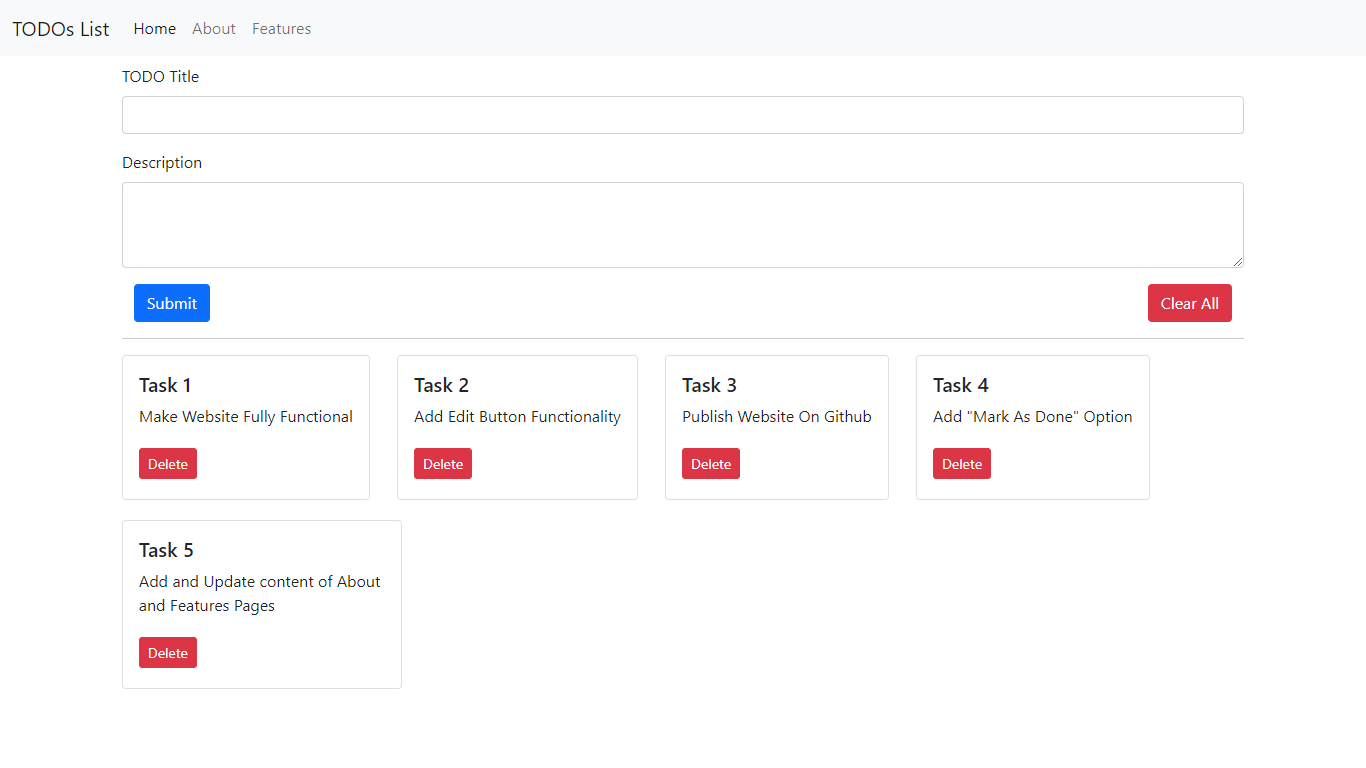
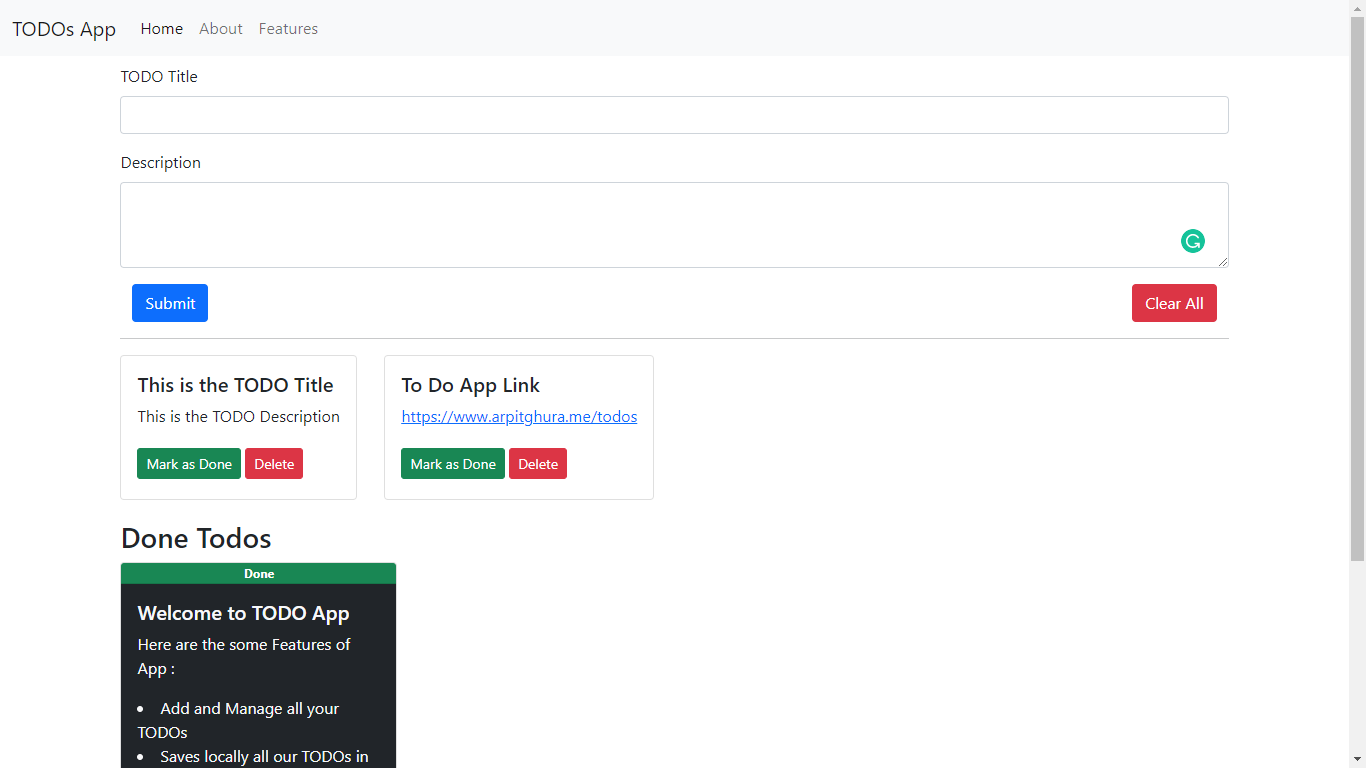
Added Mark as Done features and many more V1.0

diff --git a/main.js b/main.js
@@ -1,3 +1,4 @@
+//To getData from form and add to localstorage and frontend
 function getAndAddData() {
     tit = document.getElementById("title").value;
     desc = document.getElementById("description").value;
@@ -8,7 +9,6 @@ function getAndAddData() {
     }
     else {
         if (Validate(tit, desc)) {
-            // clearAll.style.display = 'block';
             JsonItemsArray.push([tit, desc]);
             localStorage.setItem("JsonItems", JSON.stringify(JsonItemsArray));
             document.getElementById("title").value = "";
@@ -19,6 +19,8 @@ function getAndAddData() {
 }
 txtarea = document.getElementById("description");
 tite = document.getElementById("title");
+
+//To validate where text and description is not empty
 function Validate(title, descr) {
     if (!(title.length) == 0) {
         tite.style.borderColor = '#ced4da';
@@ -28,7 +30,7 @@ function Validate(title, descr) {
         }
         else {
             txtarea.style.borderColor = 'red';
-            txtarea.placeholder = 'Enter Some description';
+            txtarea.placeholder = 'Enter Some Description';
             return false;
         }
     }
@@ -39,6 +41,7 @@ function Validate(title, descr) {
     }
 }
 
+//TO add TODO on frontend from localstorage
 function update() {
     if (localStorage.getItem("JsonItems") == null) {
         JsonItemsArray = [];
@@ -51,22 +54,34 @@ function update() {
     }
     let content = "";
     JsonItemsArray.forEach((element, index) => {
-        content += `<div class="card col-3">
+        content += `<div class="card col-sm-5 col-md-4 col-lg-3">
         <div class="card-body">
           <h5 class="card-title">${element[0]}</h5>
           <p class="card-text">${element[1]}</p>
-         <!-- <button class="btn btn-primary btn-sm my-1" onclick="edited(${index})">Edit</button> -->
+          <button class="btn btn-success btn-sm my-1" onclick="MarkedAsDone(${index})">Mark as Done</button>
           <button class="btn btn-danger btn-sm my-1" onclick="deleted(${index})">Delete</button>
         </div>
         </div>`
     });
     addTodo = document.getElementById("todos");
     todos.innerHTML = content;
+    DoneUpdate();
+    //Display of Clear Btn and Done TODO Label
+    if (localStorage.getItem("JsonDoneItems") == "[]") {
+        doneLabel.style.display = "none";
+    }
+    else {
+        doneLabel.style.display = "block";
+    }
+    if (localStorage.getItem("JsonItems") == "[]" && localStorage.getItem("JsonDoneItems") == "[]") {
+        clearAll.classList.add("disabled");
+    }
+    else {
+        clearAll.classList.remove("disabled");
+    }
 }
-add = document.getElementById("add");
-add.addEventListener("click", getAndAddData);
-update();
 
+//Clear All TODO i.e., clear the local storage
 clearAll = document.getElementById("clearAll");
 clearAll.addEventListener("click", () => {
     if (confirm("Do you really want to delete all TODOs. After doing this, you are unable to recover your TODOs?")) {
@@ -75,6 +90,7 @@ clearAll.addEventListener("click", () => {
     }
 })
 
+//Delete TODO 
 function deleted(itemIndex) {
     JsonItemsArrayStr = localStorage.getItem("JsonItems");
     JsonItemsArr = JSON.parse(JsonItemsArrStr);
@@ -83,6 +99,83 @@ function deleted(itemIndex) {
     update();
 }
 
-function edited(itemIndex) {
-
+//To remove and update lcal storage and front end for the TODO that labeled Marked as Done
+function MarkedAsDone(itemIndex) {
+    JsonItemsArrayStr = localStorage.getItem("JsonItems");
+    JsonItemsArr = JSON.parse(JsonItemsArrStr);
+    let doneEle = JsonItemsArr.splice(itemIndex, 1);
+    AddToDoneArr(doneEle[0], doneEle[1]);
+    localStorage.setItem("JsonItems", JSON.stringify(JsonItemsArr));
+    update();
 }
+
+//Add Done TODO to Local Storage
+function AddToDoneArr(doneEletitle, doneEledesc) {
+    if (localStorage.getItem("JsonDoneItems") == null) {
+        JsonDoneItemsArray = [];
+        JsonDoneItemsArray.push([doneEletitle, doneEledesc]);
+        localStorage.setItem("JsonDoneItems", JSON.stringify(JsonDoneItemsArray));
+    }
+    else {
+        JsonDoneItemsArray.push([doneEletitle, doneEledesc]);
+        localStorage.setItem("JsonDoneItems", JSON.stringify(JsonDoneItemsArray));
+    }
+}
+
+//Update Frontend (also get data from local storage) for DONE TODOs
+function DoneUpdate() {
+    if (localStorage.getItem("JsonDoneItems") == null) {
+        JsonDoneItemsArray = [];
+        localStorage.setItem("JsonDoneItems", JsonDoneItemsArray);
+        localStorage.setItem("JsonDoneItems", JSON.stringify(JsonDoneItemsArray));
+    }
+    else {
+        JsonDoneItemsArrStr = localStorage.getItem("JsonDoneItems");
+        JsonDoneItemsArray = JSON.parse(JsonDoneItemsArrStr);
+    }
+    let DoneContent = "";
+    JsonDoneItemsArray.forEach((element, index) => {
+        DoneContent += `<div class="card col-3">
+        <span class="badge bg-success card-header" id="done">Done</span> 
+        <div class="card-body bg-dark text-light">
+          <h5 class="card-title">${element[0][0]}</h5>
+          <p class="card-text">${element[0][1]}</p>
+          <button class="btn btn-warning btn-sm my-1" onclick="undoneit(${index})">Mark as Undone</button>
+          <button class="btn btn-danger btn-sm my-1" onclick="DoneDeleted(${index})">Delete</button>
+        </div>
+        </div>`
+    });
+    addDoneTodo = document.getElementById("DoneTodos");
+    addDoneTodo.innerHTML = DoneContent;
+}
+
+//Undone it
+function undoneit(itemIndex) {
+    JsonDoneItemsArrayStr = localStorage.getItem("JsonDoneItems");
+    JsonDoneItemsArr = JSON.parse(JsonDoneItemsArrStr);
+    ItemToUndone = JsonDoneItemsArr.splice(itemIndex, 1);
+    localStorage.setItem("JsonDoneItems", JSON.stringify(JsonDoneItemsArr));
+    if (localStorage.getItem("JsonItems") == null) {
+        JsonItemsArray = [];
+        JsonItemsArray.push([ItemToUndone[0][0][0], ItemToUndone[0][0][1]]);
+        localStorage.setItem("JsonItems", JSON.stringify(JsonItemsArray));
+    }
+    else {
+        JsonItemsArray.push([ItemToUndone[0][0][0], ItemToUndone[0][0][1]]);
+        localStorage.setItem("JsonItems", JSON.stringify(JsonItemsArray));
+    }
+    update();
+}
+
+//Delete Done TODOs
+function DoneDeleted(itemIndex) {
+    JsonDoneItemsArrayStr = localStorage.getItem("JsonDoneItems");
+    JsonDoneItemsArr = JSON.parse(JsonDoneItemsArrStr);
+    JsonDoneItemsArr.splice(itemIndex, 1);
+    localStorage.setItem("JsonDoneItems", JSON.stringify(JsonDoneItemsArr));
+    update();
+}
+
+add = document.getElementById("add");
+add.addEventListener("click", getAndAddData);
+update();

diff --git a/index.html b/index.html
@@ -4,7 +4,8 @@
     <!-- Required meta tags -->
     <meta charset="utf-8" />
     <meta name="viewport" content="width=device-width, initial-scale=1" />
-
+    <meta name="keywords" content="todos app,todos,todo,todo note app,notes app,todo task management,task management,TODOs,TODO,arpitghura.me/todos,arpitghura,todos github,todos opensource,opensource todos app">
+    <link rel="shortcut icon" href="favicon.png" type="image/x-icon">
     <!-- Bootstrap CSS -->
     <link
       href="https://cdn.jsdelivr.net/npm/bootstrap@5.1.3/dist/css/bootstrap.min.css"
@@ -23,36 +24,22 @@
           class="navbar-toggler"
           type="button"
           data-bs-toggle="collapse"
-          data-bs-target="#navbarTogglerDemo03"
-          aria-controls="navbarTogglerDemo03"
+          data-bs-target="#navbarToggler"
+          aria-controls="navbarToggler"
           aria-expanded="false"
           aria-label="Toggle navigation"
         >
           <span class="navbar-toggler-icon"></span>
         </button>
-        <div class="collapse navbar-collapse" id="navbarTogglerDemo03">
+        <div class="collapse navbar-collapse" id="navbarToggler">
           <ul class="navbar-nav me-auto mb-2 mb-lg-0">
             <li class="nav-item">
               <a class="nav-link active" aria-current="page" href="#">Home</a>
             </li>
             <li class="nav-item">
-              <a class="nav-link" href="#">About</a>
-            </li>
-            <li class="nav-item">
-              <a class="nav-link" href="#">Features</a>
+              <a class="nav-link" href="features.html">Features</a>
             </li>
           </ul>
-          <!-- <form class="d-flex">
-            <input
-              class="form-control me-2"
-              type="search"
-              placeholder="Search"
-              aria-label="Search"
-            />
-            <button class="btn btn-outline-success" type="submit">
-              Search
-            </button>
-          </form> -->
         </div>
       </div>
     </nav>
@@ -65,26 +52,20 @@
         <label for="description" class="form-label">Description</label>
         <textarea class="form-control" id="description" rows="3"></textarea>
       </div>
-      <div class="container d-flex justify-content-between">
-        <button type="submit" class="btn btn-primary" id="add">Submit</button>
-        <button type="submit" class="btn btn-danger" id="clearAll">Clear All</button>
+      <div class="container d-flex justify-content-between flex-wrap">
+        <button type="submit" class="btn btn-primary my-1" id="add">Submit</button>
+        <button type="submit" class="btn btn-danger my-1" id="clearAll">Clear All</button>
       </div>
 
       <hr />
       <!-- --- Card to view the TODOs ---  -->
       <div id="todos" class="d-flex flex-wrap">
-        <div class="card col-3">
-          <div class="card-body">
-            <h5 class="card-title">This is the Sample ToDo</h5>
-            <p class="card-text">
-              Hello, You can add your todos by filling details above as well as
-              you can update and delete them as well.
-            </p>
-            <!-- <button class="btn btn-primary btn-sm my-1">Edit</button> -->
-            <button class="btn btn-danger btn-sm my-1">Delete</button>
-          </div>
-        </div>
       </div>
+      <!-- --- Done Card For TODOs Marked As DONE ---  -->
+      <h3 id="doneLabel">Done Todos</h3>
+      <div id="DoneTodos" class="d-flex flex-wrap">
+      </div>
+
     </div>
     <script
       src="https://cdn.jsdelivr.net/npm/bootstrap@5.1.3/dist/js/bootstrap.bundle.min.js"

diff --git a/features.html b/features.html
@@ -1,0 +1,61 @@
+<!DOCTYPE html>
+<html lang="en">
+
+<head>
+    <!-- Required meta tags -->
+    <meta charset="utf-8" />
+    <meta name="viewport" content="width=device-width, initial-scale=1" />
+    <meta name="keywords"
+        content="todos app,todos,todo,todo note app,notes app,todo task management,task management,TODOs,TODO,arpitghura.me/todos,arpitghura,todos github,todos opensource,opensource todos app" />
+    <link rel="shortcut icon" href="favicon.png" type="image/x-icon" />
+    <!-- Bootstrap CSS -->
+    <link href="https://cdn.jsdelivr.net/npm/bootstrap@5.1.3/dist/css/bootstrap.min.css" rel="stylesheet"
+        integrity="sha384-1BmE4kWBq78iYhFldvKuhfTAU6auU8tT94WrHftjDbrCEXSU1oBoqyl2QvZ6jIW3" crossorigin="anonymous" />
+    <link rel="stylesheet" href="style.css" />
+    <title>Features - TODOs App</title>
+</head>
+
+<body>
+    <nav class="navbar navbar-expand-lg navbar-light bg-light">
+        <div class="container-fluid">
+          <a class="navbar-brand" href="#">TODOs App</a>
+          <button
+            class="navbar-toggler"
+            type="button"
+            data-bs-toggle="collapse"
+            data-bs-target="#navbarToggler"
+            aria-controls="navbarToggler"
+            aria-expanded="false"
+            aria-label="Toggle navigation"
+          >
+            <span class="navbar-toggler-icon"></span>
+          </button>
+          <div class="collapse navbar-collapse" id="navbarToggler">
+            <ul class="navbar-nav me-auto mb-2 mb-lg-0">
+              <li class="nav-item">
+                <a class="nav-link" aria-current="page" href="#">Home</a>
+              </li>
+              <li class="nav-item">
+                <a class="nav-link active" href="features.html">Features</a>
+              </li>
+            </ul>
+          </div>
+        </div>
+      </nav>
+    <div class="container bg-light my-3 p-4">
+        <h2>Here are the some Features of App :</h2>
+        <ul>
+            <li>Add and Manage all your TODOs</li>
+            <li>Saves locally all our TODOs in your browser</li>
+            <li>Validation of Title and Description</li>
+            <li>Mark as Done or Undone any TODO</li>
+            <li>Delete a particular TODO</li>
+            <li>Edit any particular TODO*</li>
+        </ul>
+    </div>
+    <script src="https://cdn.jsdelivr.net/npm/bootstrap@5.1.3/dist/js/bootstrap.bundle.min.js"
+        integrity="sha384-ka7Sk0Gln4gmtz2MlQnikT1wXgYsOg+OMhuP+IlRH9sENBO0LRn5q+8nbTov4+1p"
+        crossorigin="anonymous"></script>
+</body>
+
+</html>

diff --git a/style.css b/style.css
@@ -1,12 +1,8 @@
 .card{
     margin: 0 2vw 1.5vw 0;
     height: min-content;
-    max-width: fit-content;
 }
-#clearAll{
-    display: none;
-}
-@media only screen and (max-width: 480px) {
+/* @media only screen and (max-width: 480px) {
     .card{
         width: 100%;
     }
@@ -22,4 +18,4 @@
     .card{
         width: 27vw;
     }
-}
+} */

diff --git a/README.md b/README.md
@@ -6,16 +6,18 @@ A Notes Taking App Build with
 3. BootStrap
 4. JavaScript
 
-Access From : [https://arpitghura.github.io/todos](https://arpitghura.github.io/todos)
+Access From : [https://www.arpitghura.me/todos](https://www.arpitghura.me/todos)
 
 <br/>
 
-<img src="AppScreenShot.png" alt="todos App screenshot">
+<img src="AppScreenshot.png" alt="todos App screenshot">
 
 ---
 ## Features
 <li>Add and Manage all your TODOs</li>
 <li>Saves locally all our TODOs in your browser</li>
+<li>Validation of Title and Description</li>
+<li>Mark as Done or Undone any TODO</li>
 <li>Delete a particular TODO</li>
 <li>Edit any particular TODO*</li>
 
